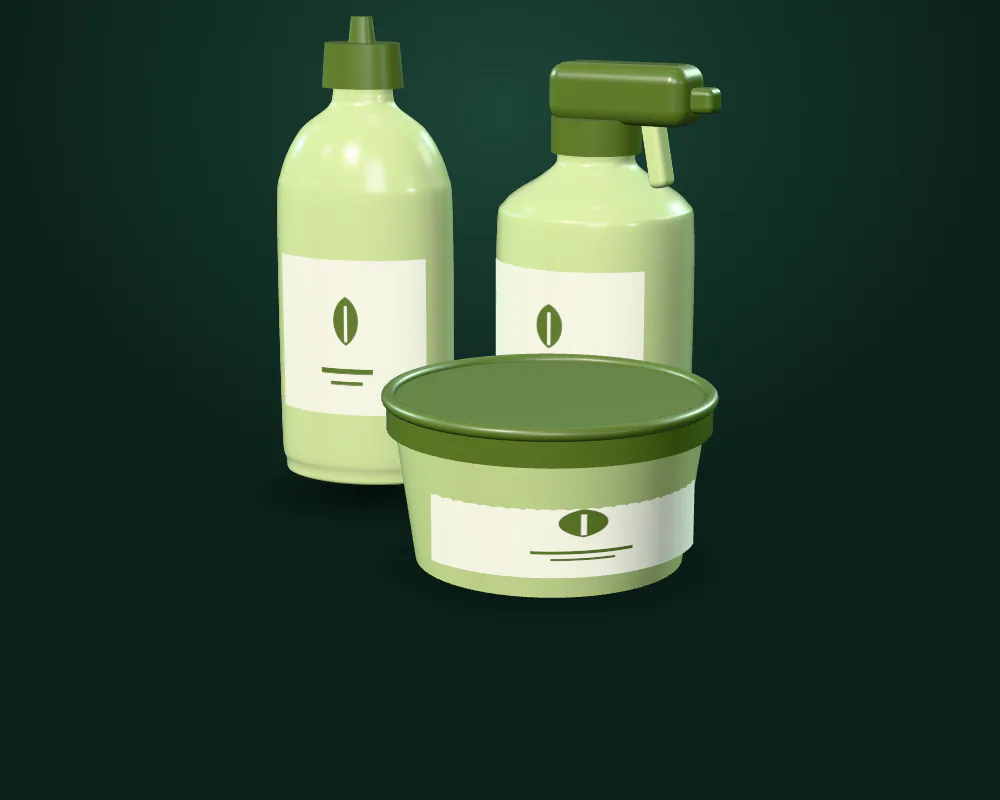
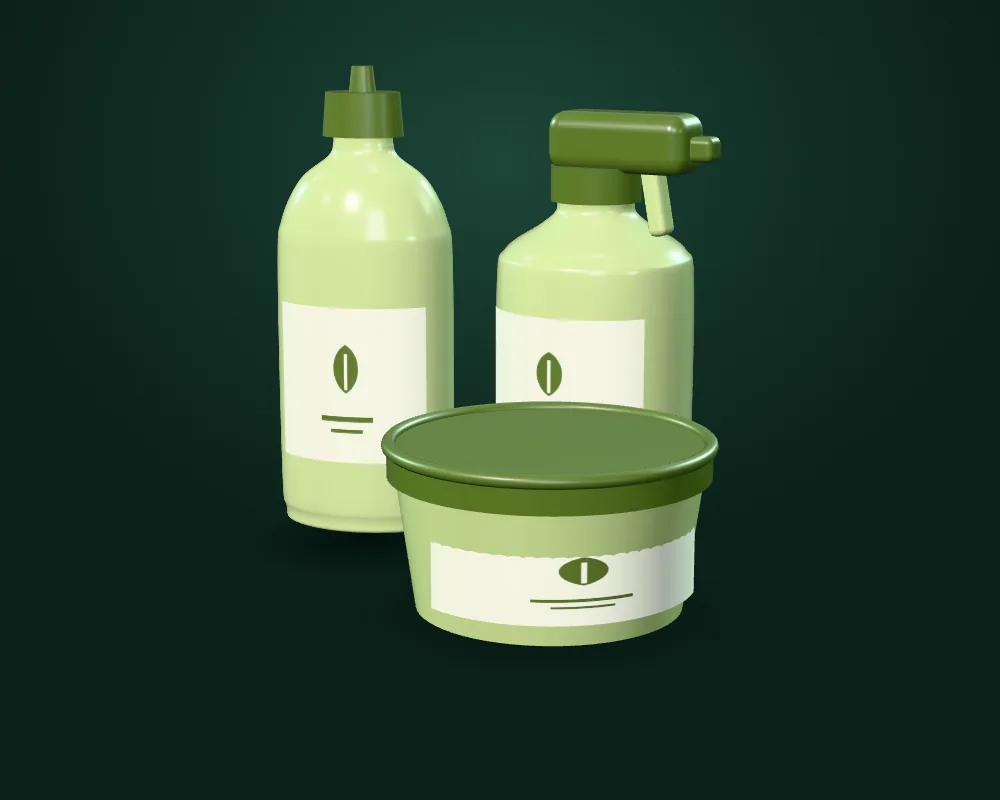
fix: inner-page gate: no lonely last card, post band focal point, 16px small text
CardGrid picks 3 or 4 columns (or adds a "mix it in one container" note tile)
so a range never ends on one card (cardGrid, tested). Post bands are tall
enough for the render to lead the first screen. Form option labels, footer
terms and credits move to 16px. Category group renders sit a little lower so
the packs clear the band's top edge.

Changed region(s): [[0.279, 0.0, 0.744, 0.8125]]

diff --git a/src/styles/floria.css b/src/styles/floria.css
@@ -473,6 +473,11 @@
 .ph--product .ph-title--l {
   font-size: clamp(1.375rem, 0.75rem + 2.3vw, 2.75rem);
 }
+.ph--post.ph--media-bleed {
+  min-height: min(92svh, 880px);
+  display: grid;
+  align-items: center;
+}
 .ph--post .ph-title {
   font-size: clamp(1.5rem, 0.95rem + 1.6vw, 2.5rem);
   line-height: 1.05;
@@ -596,7 +601,8 @@
   .ph--media-card {
     padding-top: 0;
   }
-  .ph--product {
+  .ph--product,
+  .ph--post.ph--media-bleed {
     min-height: 0;
     display: block;
   }
@@ -1074,32 +1080,75 @@
   }
 }
 
-/* ---------- product cards: tall, rounded, staggered ---------- */
+/* ---------- product cards: tall, rounded, staggered (CardGrid) ---------- */
 .cards-stagger {
+  --cols: 3;
   display: grid;
-  grid-template-columns: repeat(3, minmax(0, 1fr));
+  grid-template-columns: repeat(var(--cols), minmax(0, 1fr));
   gap: 40px 32px;
   align-items: start;
 }
-.cards-stagger > :nth-child(3n + 2) {
+.cards-stagger--2 {
+  --cols: 2;
+}
+.cards-stagger--4 {
+  --cols: 4;
+  gap: 40px 24px;
+}
+/* the reference's gentle offsets: 0 / 96 / 48 (and 144 in a fourth column) */
+.cards-stagger--3 > :nth-child(3n + 2),
+.cards-stagger--2 > :nth-child(2n) {
   margin-top: 96px;
 }
-.cards-stagger > :nth-child(3n) {
+.cards-stagger--3 > :nth-child(3n) {
   margin-top: 48px;
 }
-.cards-stagger--two {
-  grid-template-columns: repeat(2, minmax(0, 1fr));
+.cards-stagger--4 > :nth-child(4n + 2) {
+  margin-top: 72px;
 }
-.cards-stagger--two > :nth-child(3n) {
-  margin-top: 0;
+.cards-stagger--4 > :nth-child(4n + 3) {
+  margin-top: 36px;
 }
-.cards-stagger--two > :nth-child(2n) {
-  margin-top: 96px;
+.cards-stagger--4 > :nth-child(4n) {
+  margin-top: 108px;
+}
+.cards-note {
+  display: grid;
+  align-content: end;
+  gap: 14px;
+  aspect-ratio: 4 / 5;
+  padding: clamp(24px, 2.6vw, 36px);
+  border-radius: var(--radius-card);
+  background: var(--forest-950);
+  color: var(--on-dark-soft);
+}
+.cards-note-h {
+  color: var(--on-dark);
+  font-size: var(--step-h3);
+  font-weight: 500;
+  letter-spacing: -0.03em;
+  line-height: 1.15;
+}
+.cards-note .link-arrow {
+  color: var(--on-dark);
+}
+.cards-note :focus-visible {
+  outline-color: var(--mint);
+}
+@media (max-width: 1099.98px) {
+  .cards-stagger--4 {
+    --cols: 2;
+  }
+  .cards-stagger--4 > :nth-child(n) {
+    margin-top: 0;
+  }
+  .cards-stagger--4 > :nth-child(2n) {
+    margin-top: 72px;
+  }
 }
 @media (max-width: 899.98px) {
-  .cards-stagger,
-  .cards-stagger--two {
-    grid-template-columns: repeat(2, minmax(0, 1fr));
+  .cards-stagger {
+    --cols: 2;
     gap: 32px 16px;
   }
   .cards-stagger > :nth-child(n) {
@@ -1108,11 +1157,13 @@
   .cards-stagger > :nth-child(2n) {
     margin-top: 56px;
   }
+  .cards-note {
+    aspect-ratio: auto;
+  }
 }
 @media (max-width: 519.98px) {
-  .cards-stagger,
-  .cards-stagger--two {
-    grid-template-columns: 1fr;
+  .cards-stagger {
+    --cols: 1;
     gap: 40px;
   }
   .cards-stagger > :nth-child(n) {

diff --git a/tests/unit/card-grid.test.ts b/tests/unit/card-grid.test.ts
@@ -1,0 +1,22 @@
+import { describe, it, expect } from 'vitest';
+import { cardGrid } from '../../src/lib/card-grid';
+
+const holes = (n: number) => {
+  const g = cardGrid(n);
+  return (g.cols - ((n + (g.note ? 1 : 0)) % g.cols)) % g.cols;
+};
+
+describe('cardGrid', () => {
+  it('fills every row for the sizes a range or page uses (3 to 9, 12)', () => {
+    for (const n of [3, 4, 5, 6, 7, 8, 9, 12]) expect(holes(n), `n=${n}`).toBe(0);
+  });
+  it('uses two columns for one or two cards', () => {
+    expect(cardGrid(2)).toEqual({ cols: 2, note: false });
+  });
+  it('prefers three columns, then four, then a note tile', () => {
+    expect(cardGrid(6)).toEqual({ cols: 3, note: false });
+    expect(cardGrid(4)).toEqual({ cols: 4, note: false });
+    expect(cardGrid(5)).toEqual({ cols: 3, note: true });
+    expect(cardGrid(7)).toEqual({ cols: 4, note: true });
+  });
+});

diff --git a/src/styles/global.css b/src/styles/global.css
@@ -785,7 +785,7 @@ main {
 .footer-terms {
   margin-top: 16px;
   max-width: 46ch;
-  font-size: var(--step-small);
+  font-size: 1rem;
   color: var(--on-dark-soft);
 }
 .footer-links {
@@ -835,7 +835,7 @@ main {
 .footer-credits {
   margin-top: clamp(56px, 7vw, 96px);
   max-width: 64ch;
-  font-size: var(--step-small);
+  font-size: 1rem;
   line-height: 1.6;
   color: var(--on-dark-soft);
 }
@@ -1091,7 +1091,7 @@ main {
   border-radius: var(--pill);
   background: var(--paper);
   font-weight: 500;
-  font-size: var(--step-small);
+  font-size: 1rem;
   line-height: 1.25;
   cursor: pointer;
   transition: background-color var(--dur-fast) ease;
@@ -1146,6 +1146,7 @@ main {
 }
 .enq-hint {
   max-width: 48ch;
+  font-size: 1rem;
 }
 .enq-send {
   border-radius: 28px;

diff --git a/src/lib/card-grid.ts b/src/lib/card-grid.ts
@@ -1,0 +1,12 @@
+/**
+ * Column count for a staggered card grid, so the last row is never one lonely card:
+ * 3 columns by default, 4 when that fills the rows better, and a "mix in one container"
+ * note tile to fill a single remaining gap.
+ */
+export function cardGrid(n: number): { cols: 2 | 3 | 4; note: boolean } {
+  if (n <= 2) return { cols: 2, note: false };
+  if (n % 3 === 0) return { cols: 3, note: false };
+  if (n % 4 === 0) return { cols: 4, note: false };
+  if (n % 3 === 2) return { cols: 3, note: true };
+  return { cols: 4, note: n % 4 === 3 };
+}

diff --git a/scripts/render/entry.ts b/scripts/render/entry.ts
@@ -98,7 +98,7 @@ const api = {
   },
   async renderGroup(items: GroupItem[], tint: keyof typeof TINT, w: number, h: number, fill = 0.7) {
     // lift: the group sits in the upper part of the frame, leaving room for the tile's label below
-    await shoot(items, TINT[tint], w, h, { fill, elev: 10, lift: 0.22 });
+    await shoot(items, TINT[tint], w, h, { fill, elev: 10, lift: 0.12 });
   },
   async renderHero() {
     const c = freshCanvas(HERO_FRAME.width, HERO_FRAME.height);
